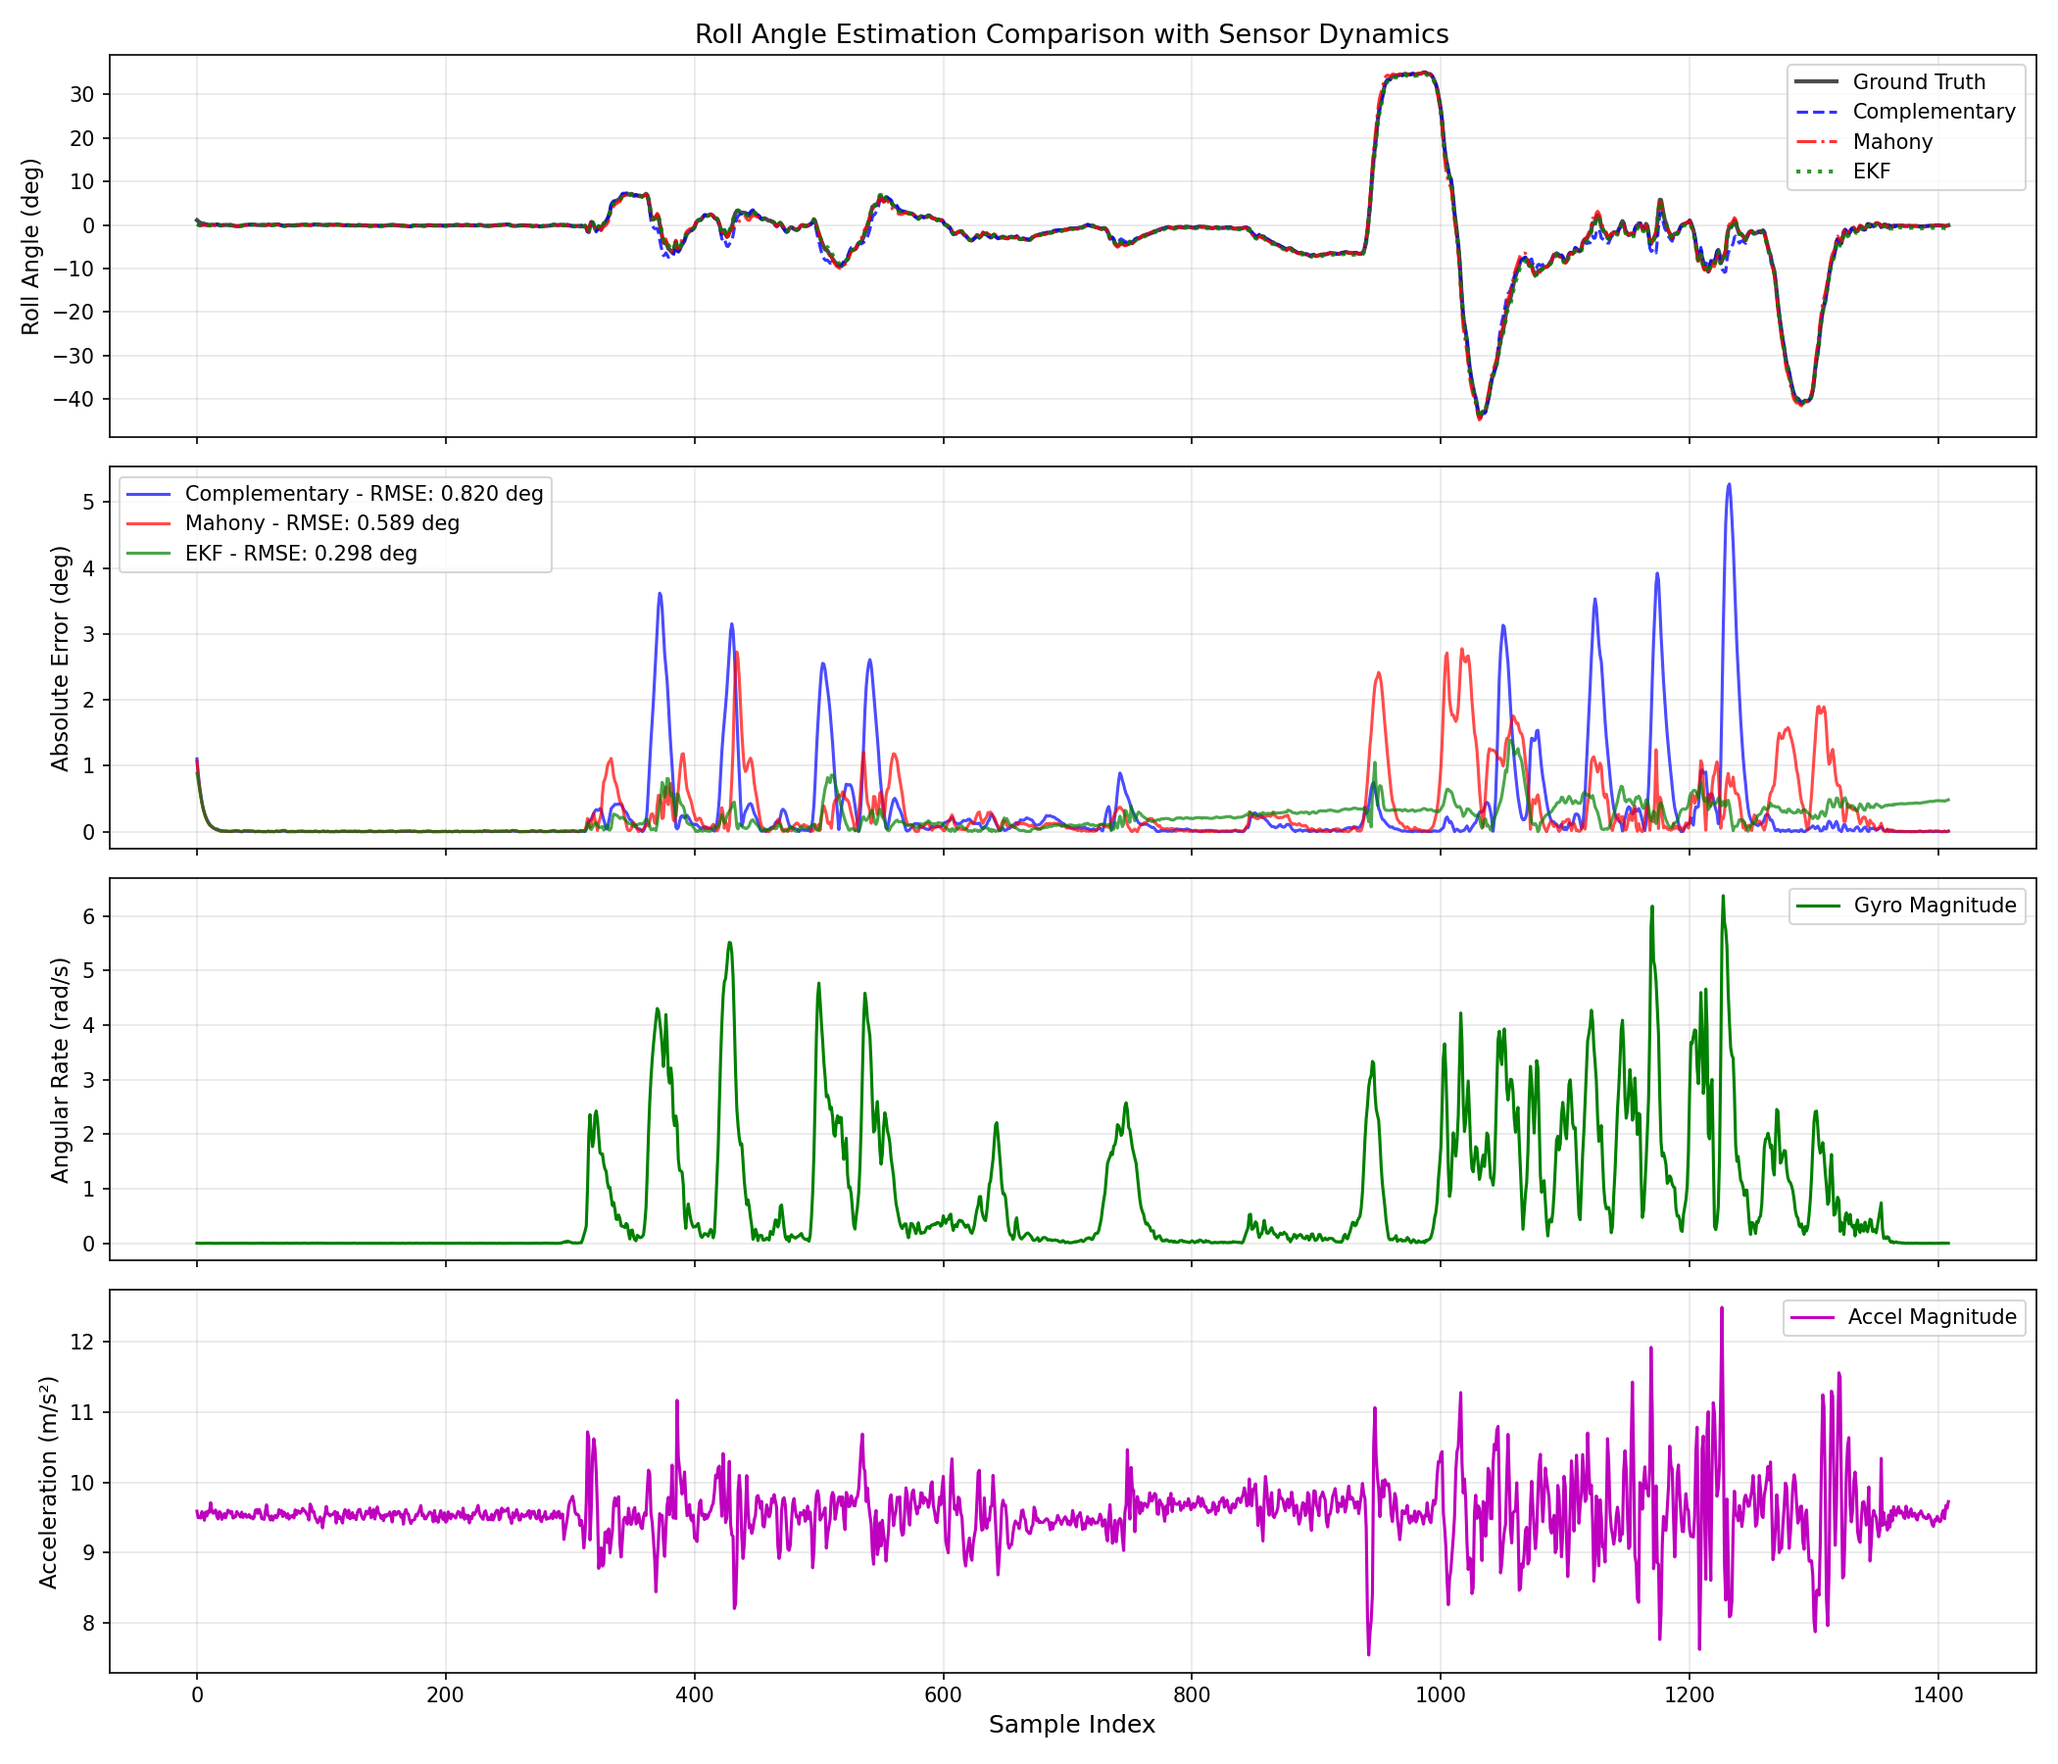
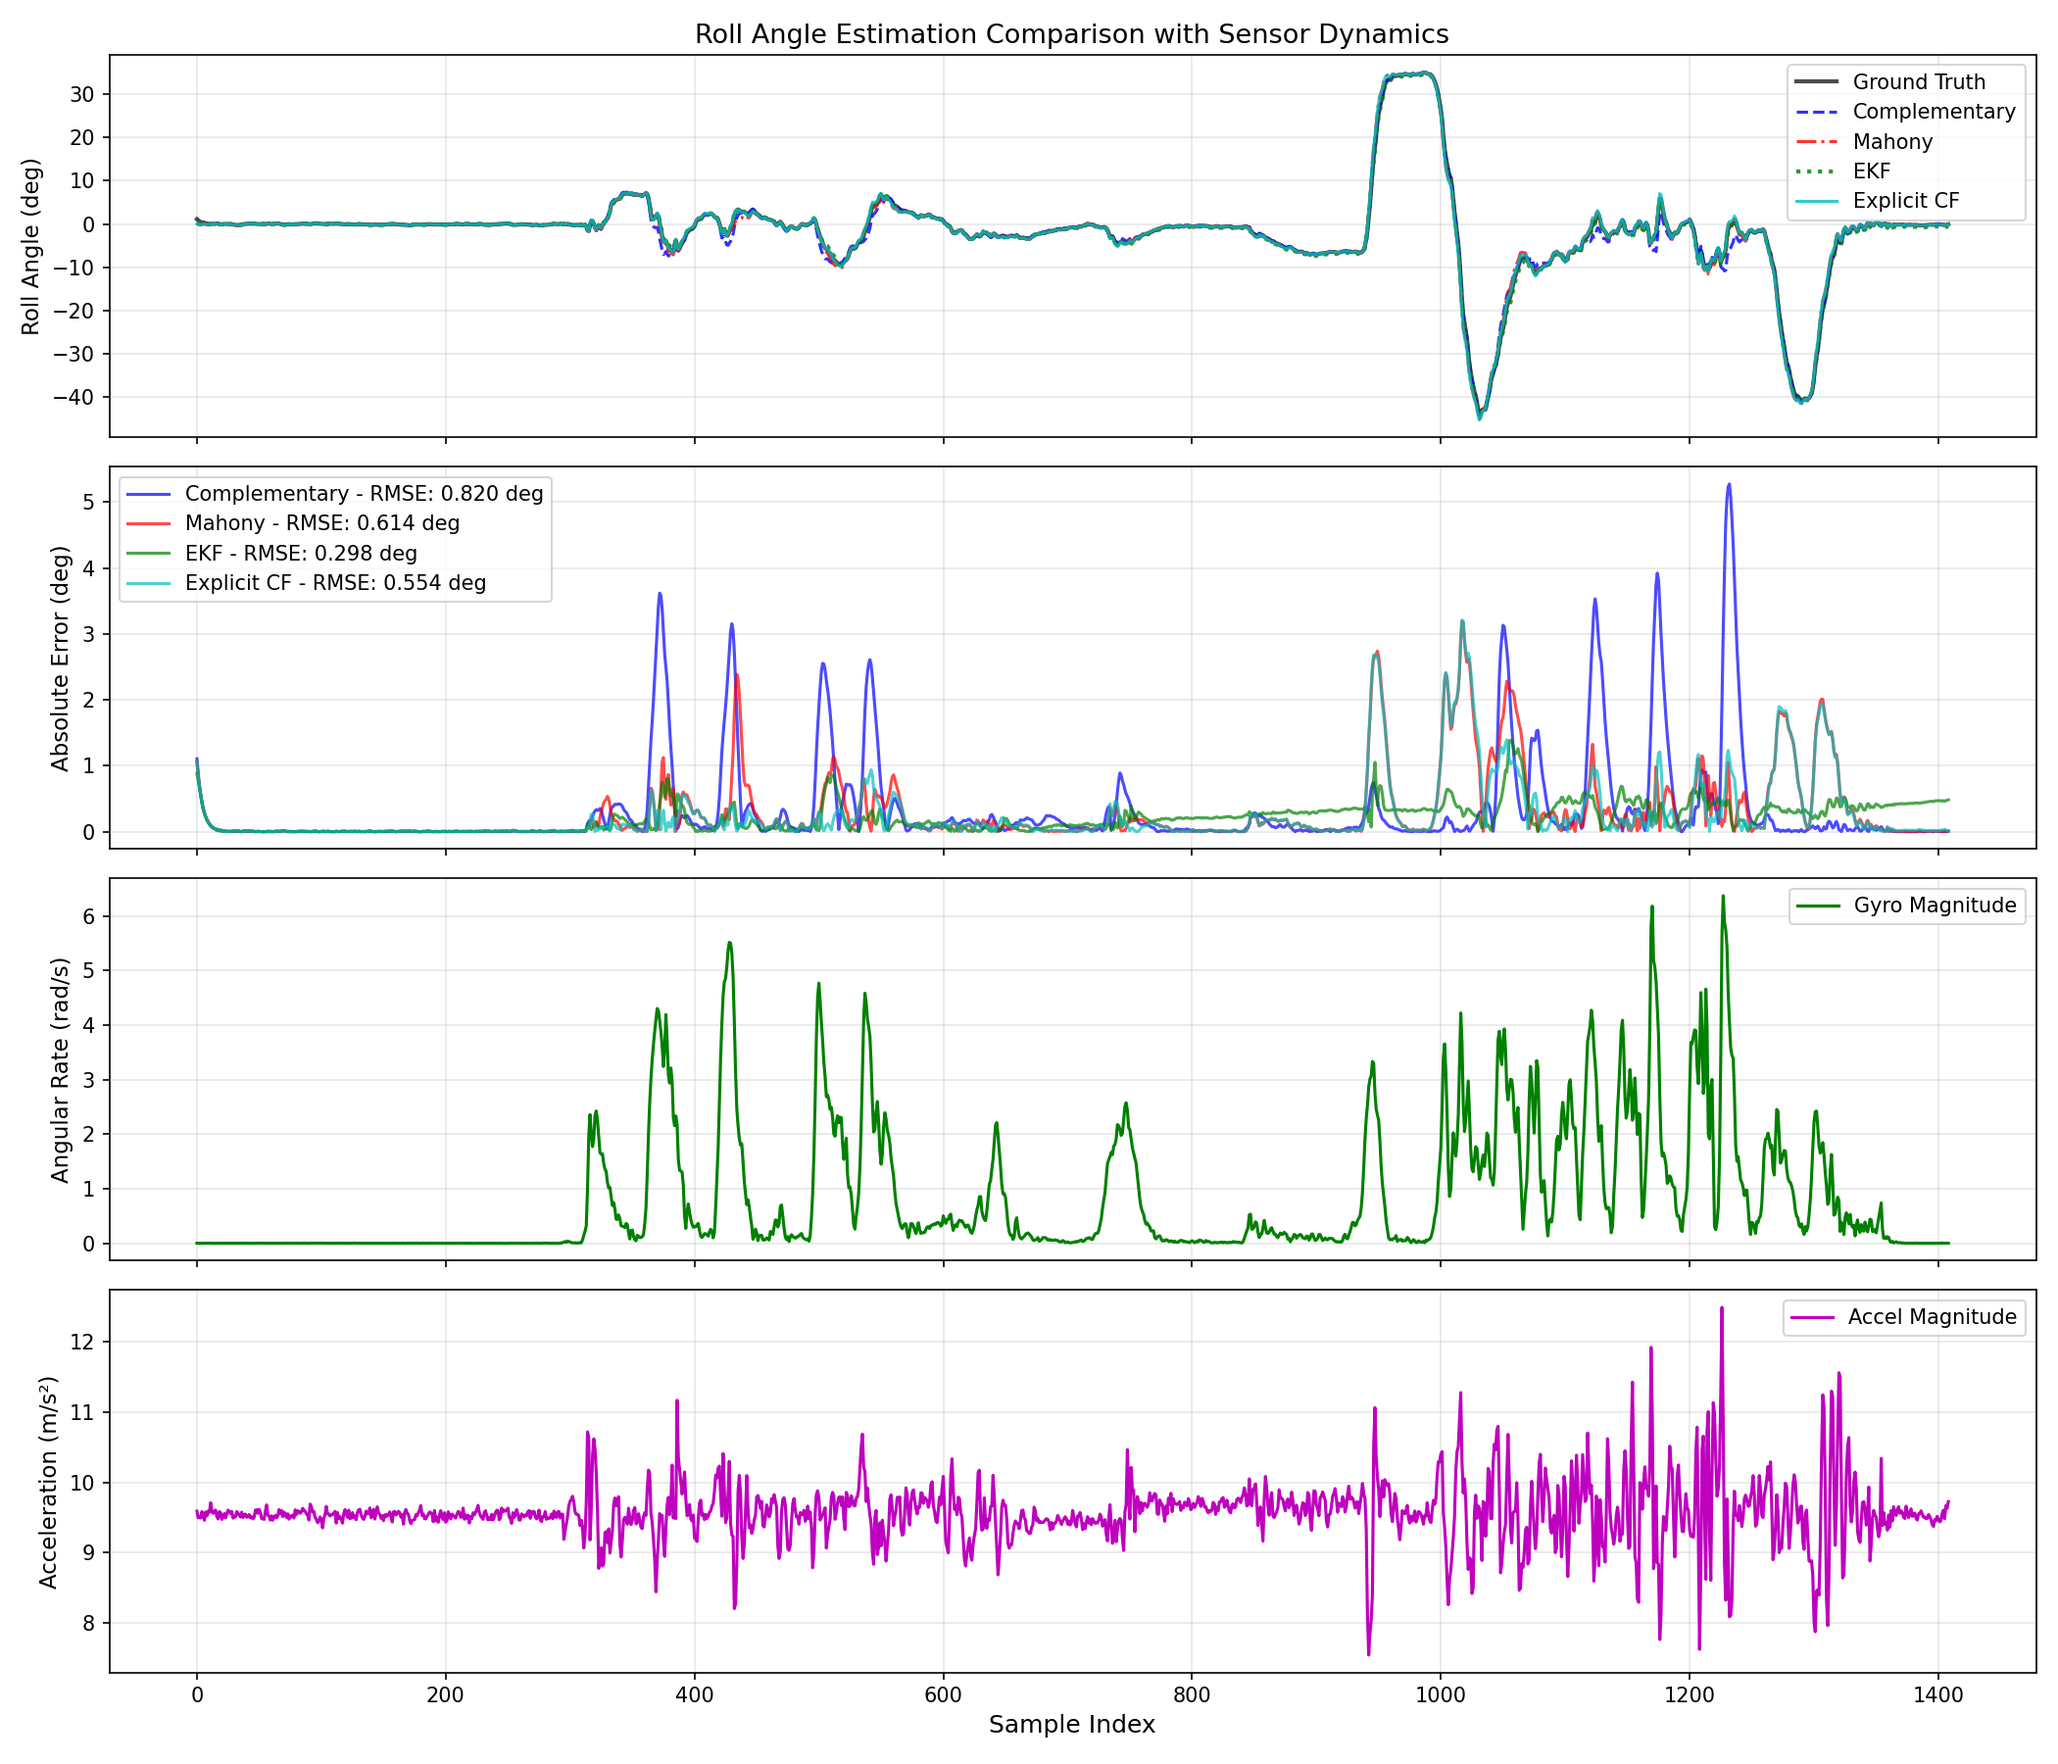
fix script and analyze dynamic plot

diff --git a/analyze_dynamics.py b/analyze_dynamics.py
@@ -1,0 +1,149 @@
+import matplotlib.pyplot as plt
+import numpy as np
+
+# Load datasets
+rollComplementary = np.loadtxt('Results/Results/ComplementaryRoll_a_0_79.txt')
+rollMahony = np.loadtxt('Results/Results/MahonyRoll_kp_11.txt')
+rollEKF = np.loadtxt('Results/Results/EkfRoll.txt')
+rollExplicitCF = np.loadtxt('Results/Results/ExplicitComplementaryRoll.txt')
+rollGroundTruth = np.loadtxt('Results/ExpectedResults/expected_roll.txt')
+
+# Load sensor data
+gyroData = np.loadtxt('Data/gyro.csv', delimiter=',')
+accelData = np.loadtxt('Data/accel.csv', delimiter=',')
+
+# Same sample window as before
+total_samples = len(rollGroundTruth)
+sample_size = total_samples
+start_idx = 0
+end_idx = total_samples
+
+# Extract samples
+rollComp_sample = rollComplementary[start_idx:end_idx]
+rollMahony_sample = rollMahony[start_idx:end_idx]
+rollEKF_sample = rollEKF[start_idx:end_idx]
+rollExplicitCF_sample = rollExplicitCF[start_idx:end_idx]
+rollTruth_sample = rollGroundTruth[start_idx:end_idx]
+time_indices = np.arange(start_idx, end_idx)
+
+# Calculate errors (squared for RMSE calculation)
+error_complementary = rollComp_sample - rollTruth_sample
+error_mahony = rollMahony_sample - rollTruth_sample
+error_ekf = rollEKF_sample - rollTruth_sample
+error_explicitCF = rollExplicitCF_sample - rollTruth_sample
+
+# Absolute errors for plotting
+abs_error_complementary = np.abs(error_complementary)
+abs_error_mahony = np.abs(error_mahony)
+abs_error_ekf = np.abs(error_ekf)
+abs_error_explicitCF = np.abs(error_explicitCF)
+
+# Extract gyro and accel for this window
+gyro_sample = gyroData[start_idx:end_idx, :]
+accel_sample = accelData[start_idx:end_idx, :]
+
+# Calculate gyro magnitude (total angular rate)
+gyro_magnitude = np.linalg.norm(gyro_sample, axis=1)
+
+# Calculate accel magnitude
+accel_magnitude = np.linalg.norm(accel_sample, axis=1)
+
+# Calculate RMSE for legend labels
+rmse_complementary = np.sqrt(np.mean(error_complementary**2))
+rmse_mahony = np.sqrt(np.mean(error_mahony**2))
+rmse_ekf = np.sqrt(np.mean(error_ekf**2))
+rmse_explicitCF = np.sqrt(np.mean(error_explicitCF**2))
+
+# Create multi-panel figure
+fig, axes = plt.subplots(4, 1, figsize=(14, 12), sharex=True)
+
+# Panel 1: Roll angle comparison
+axes[0].plot(time_indices, rollTruth_sample, 'k-', linewidth=2, label='Ground Truth', alpha=0.7)
+axes[0].plot(time_indices, rollComp_sample, 'b--', linewidth=1.5, label='Complementary', alpha=0.8)
+axes[0].plot(time_indices, rollMahony_sample, 'r-.', linewidth=1.5, label='Mahony', alpha=0.8)
+axes[0].plot(time_indices, rollEKF_sample, 'g:', linewidth=2, label='EKF', alpha=0.8)
+axes[0].plot(time_indices, rollExplicitCF_sample, 'c-', linewidth=1.5, label='Explicit CF', alpha=0.8)
+axes[0].set_ylabel('Roll Angle (deg)', fontsize=11)
+axes[0].set_title('Roll Angle Estimation Comparison with Sensor Dynamics', fontsize=13)
+axes[0].legend(loc='best')
+axes[0].grid(True, alpha=0.3)
+
+# Panel 2: Estimation errors
+axes[1].plot(time_indices, abs_error_complementary, 'b-', linewidth=1.5, label=f'Complementary - RMSE: {rmse_complementary:.3f} deg', alpha=0.7)
+axes[1].plot(time_indices, abs_error_mahony, 'r-', linewidth=1.5, label=f'Mahony - RMSE: {rmse_mahony:.3f} deg', alpha=0.7)
+axes[1].plot(time_indices, abs_error_ekf, 'g-', linewidth=1.5, label=f'EKF - RMSE: {rmse_ekf:.3f} deg', alpha=0.7)
+axes[1].plot(time_indices, abs_error_explicitCF, 'c-', linewidth=1.5, label=f'Explicit CF - RMSE: {rmse_explicitCF:.3f} deg', alpha=0.7)
+axes[1].set_ylabel('Absolute Error (deg)', fontsize=11)
+axes[1].legend(loc='best')
+axes[1].grid(True, alpha=0.3)
+
+# Panel 3: Gyro magnitude (angular rate)
+axes[2].plot(time_indices, gyro_magnitude, 'g-', linewidth=1.5, label='Gyro Magnitude')
+axes[2].set_ylabel('Angular Rate (rad/s)', fontsize=11)
+axes[2].legend(loc='best')
+axes[2].grid(True, alpha=0.3)
+
+# Panel 4: Accel magnitude
+axes[3].plot(time_indices, accel_magnitude, 'm-', linewidth=1.5, label='Accel Magnitude')
+axes[3].set_ylabel('Acceleration (m/s²)', fontsize=11)
+axes[3].set_xlabel('Sample Index', fontsize=12)
+axes[3].legend(loc='best')
+axes[3].grid(True, alpha=0.3)
+
+plt.tight_layout()
+plt.savefig("Results/Figures/Roll_Dynamics_Analysis.png", dpi=150)
+print(f"Dynamics analysis plot saved: Roll_Dynamics_Analysis.png")
+
+# Print RMSE statistics (already calculated above for legend)
+print("\n=== Performance Analysis ===")
+print(f"Sample window: {start_idx} to {end_idx} ({sample_size} samples)")
+print(f"\nComplementary Filter:")
+print(f"  RMSE: {rmse_complementary:.4f} deg")
+print(f"  Max absolute error: {np.max(abs_error_complementary):.4f} deg")
+print(f"\nMahony Filter:")
+print(f"  RMSE: {rmse_mahony:.4f} deg")
+print(f"  Max absolute error: {np.max(abs_error_mahony):.4f} deg")
+print(f"\nEKF:")
+print(f"  RMSE: {rmse_ekf:.4f} deg")
+print(f"  Max absolute error: {np.max(abs_error_ekf):.4f} deg")
+print(f"\nExplicit Complementary Filter:")
+print(f"  RMSE: {rmse_explicitCF:.4f} deg")
+print(f"  Max absolute error: {np.max(abs_error_explicitCF):.4f} deg")
+
+# Identify high-dynamics periods (top 25% gyro magnitude)
+high_dynamics_threshold = np.percentile(gyro_magnitude, 75)
+high_dynamics_mask = gyro_magnitude > high_dynamics_threshold
+low_dynamics_mask = ~high_dynamics_mask
+
+# Calculate RMSE for high/low dynamics periods
+rmse_comp_high = np.sqrt(np.mean(error_complementary[high_dynamics_mask]**2))
+rmse_mahony_high = np.sqrt(np.mean(error_mahony[high_dynamics_mask]**2))
+rmse_ekf_high = np.sqrt(np.mean(error_ekf[high_dynamics_mask]**2))
+rmse_explicitCF_high = np.sqrt(np.mean(error_explicitCF[high_dynamics_mask]**2))
+rmse_comp_low = np.sqrt(np.mean(error_complementary[low_dynamics_mask]**2))
+rmse_mahony_low = np.sqrt(np.mean(error_mahony[low_dynamics_mask]**2))
+rmse_ekf_low = np.sqrt(np.mean(error_ekf[low_dynamics_mask]**2))
+rmse_explicitCF_low = np.sqrt(np.mean(error_explicitCF[low_dynamics_mask]**2))
+
+print(f"\n=== High Dynamics vs Low Dynamics Performance ===")
+print(f"High dynamics threshold: {high_dynamics_threshold:.4f} rad/s")
+print(f"High dynamics samples: {np.sum(high_dynamics_mask)} ({np.sum(high_dynamics_mask)/len(high_dynamics_mask)*100:.1f}%)")
+print(f"\nHigh Dynamics Period:")
+print(f"  Complementary RMSE: {rmse_comp_high:.4f} deg")
+print(f"  Mahony RMSE: {rmse_mahony_high:.4f} deg")
+print(f"  EKF RMSE: {rmse_ekf_high:.4f} deg")
+print(f"  Explicit CF RMSE: {rmse_explicitCF_high:.4f} deg")
+high_rmses = {'Complementary': rmse_comp_high, 'Mahony': rmse_mahony_high, 'EKF': rmse_ekf_high, 'Explicit CF': rmse_explicitCF_high}
+best_high = min(high_rmses, key=high_rmses.get)
+second_best_high = sorted(high_rmses.values())[1]
+print(f"  Best performer: {best_high} (advantage: {second_best_high - high_rmses[best_high]:.4f} deg)")
+
+print(f"\nLow Dynamics Period:")
+print(f"  Complementary RMSE: {rmse_comp_low:.4f} deg")
+print(f"  Mahony RMSE: {rmse_mahony_low:.4f} deg")
+print(f"  EKF RMSE: {rmse_ekf_low:.4f} deg")
+print(f"  Explicit CF RMSE: {rmse_explicitCF_low:.4f} deg")
+low_rmses = {'Complementary': rmse_comp_low, 'Mahony': rmse_mahony_low, 'EKF': rmse_ekf_low, 'Explicit CF': rmse_explicitCF_low}
+best_low = min(low_rmses, key=low_rmses.get)
+second_best_low = sorted(low_rmses.values())[1]
+print(f"  Best performer: {best_low} (advantage: {second_best_low - low_rmses[best_low]:.4f} deg)")
